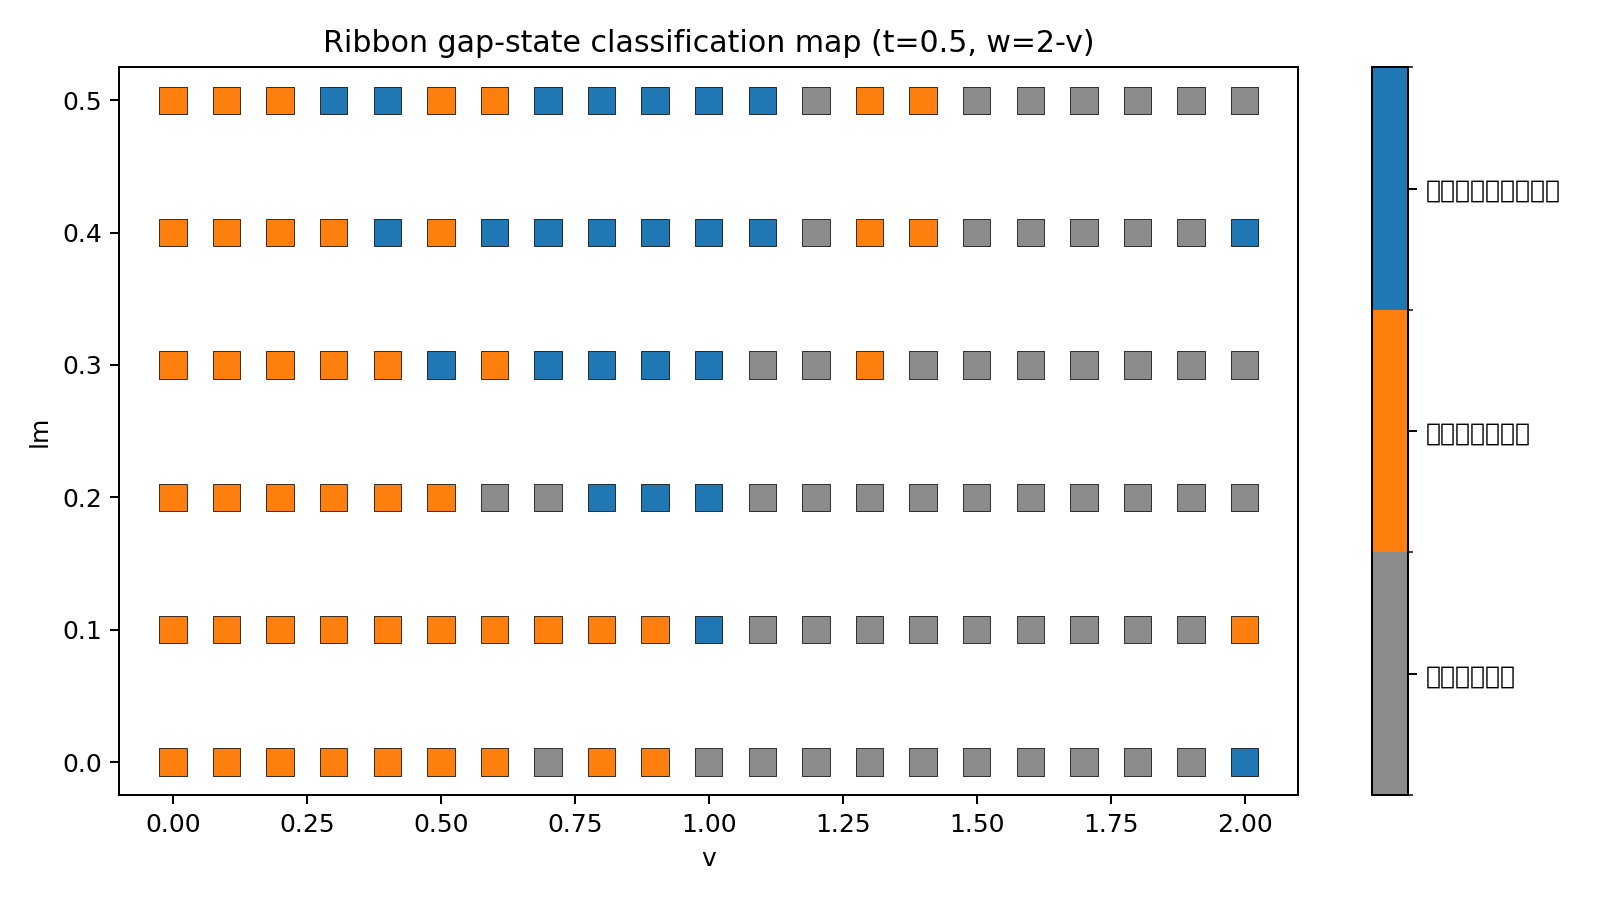
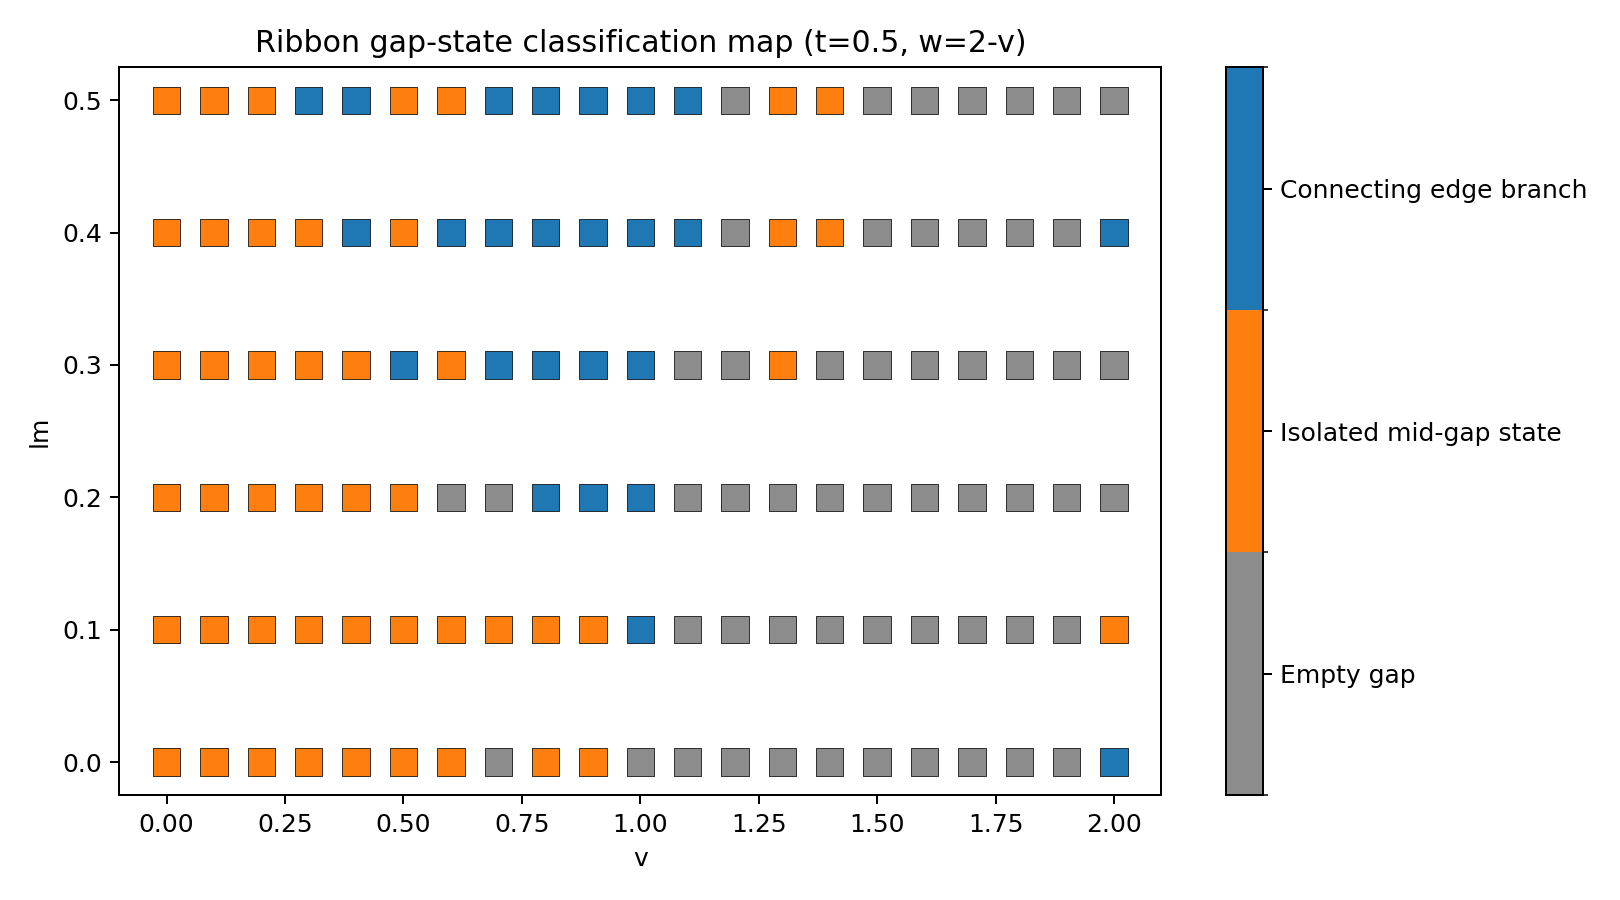
Fix ribbon classification map legend readability

diff --git a/scripts/classify_ribbon_gap_states.py b/scripts/classify_ribbon_gap_states.py
@@ -29,6 +29,12 @@ CLASS_CN = {
     CLASS_EMPTY: "能隙中间无态",
 }
 
+CLASS_EN = {
+    CLASS_CONNECTING: "Connecting edge branch",
+    CLASS_ISOLATED: "Isolated mid-gap state",
+    CLASS_EMPTY: "Empty gap",
+}
+
 
 def load_points(summary_csv: Path) -> list[dict[str, float | str]]:
     rows: list[dict[str, float | str]] = []
@@ -209,11 +215,12 @@ def plot_class_map(rows: list[dict[str, float | int | str]], save_path: Path) ->
     ax.set_title("Ribbon gap-state classification map (t=0.5, w=2-v)")
     cbar = fig.colorbar(plt.cm.ScalarMappable(norm=norm, cmap=cmap), ax=ax)
     cbar.set_ticks([0, 1, 2])
+    # Use English labels on figure colorbar to avoid missing CJK glyph issues.
     cbar.set_ticklabels(
         [
-            CLASS_CN[CLASS_EMPTY],
-            CLASS_CN[CLASS_ISOLATED],
-            CLASS_CN[CLASS_CONNECTING],
+            CLASS_EN[CLASS_EMPTY],
+            CLASS_EN[CLASS_ISOLATED],
+            CLASS_EN[CLASS_CONNECTING],
         ]
     )
     fig.tight_layout()